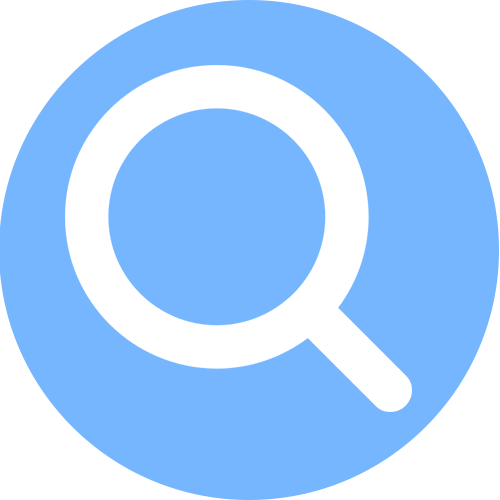
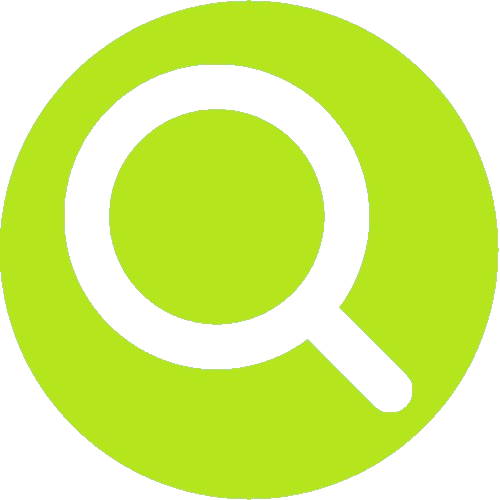
사진 파일 수정 및 검색 버튼 배경색, 테두리 제거

diff --git a/src/GUI/MAINFORM.py b/src/GUI/MAINFORM.py
@@ -184,14 +184,25 @@ search_entry.pack(side='left', padx=(10, 0), pady=10)
 
 # 검색 버튼 이미지 로드 및 설정
 search_img = Image.open('../Image/search.png')  # 이미지 파일 위치
-search_img = search_img.resize((20, 20)) # 이미지 사이즈 조절
+search_img = search_img.resize((25, 25)) # 이미지 사이즈 조절
 search_photo = ImageTk.PhotoImage(search_img)
 
-# 검색 버튼을 이미지 버튼으로 변경
-search_button = tk.Button(search_frame, image=search_photo, command=handle_search,
-                          borderwidth=2, relief=tk.RAISED)
-search_button.image = search_photo  # 이미지가 가비지 컬렉션에 의해 삭제되는 것을 방지
-search_button.pack(side='left', padx=10, pady=10)
+
+
+# 캔버스 생성 및 검색 프레임에 추가
+# 캔버스 생성 및 검색 프레임에 추가, 테두리 없음 설정
+search_canvas = Canvas(search_frame, width=30, height=30, bg='#68a6fc', highlightthickness=0, bd=0)  # 캔버스 크기 및 배경색, 테두리 설정
+search_canvas.pack(side='left', padx=10, pady=10)
+
+# 캔버스 위에 이미지 배치
+# 이미지 사이즈 조절이 이미 되어있으므로, 캔버스 크기에 맞게 조절한 이미지 사용
+canvas_image = search_canvas.create_image(17, 17, image=search_photo)  # 캔버스 중앙에 이미지 배치
+
+# 캔버스에 마우스 클릭 이벤트 바인딩하여 검색 기능 실행
+def on_canvas_click(event):
+    handle_search()
+
+search_canvas.bind("<Button-1>", on_canvas_click)  # 마우스 왼쪽 버튼 클릭 시 이벤트 연결
 
 # 엔터 키를 눌렀을 때 검색이 되도록 바인딩, 함수 호출 수정
 search_entry.bind('<Return>', handle_search)
